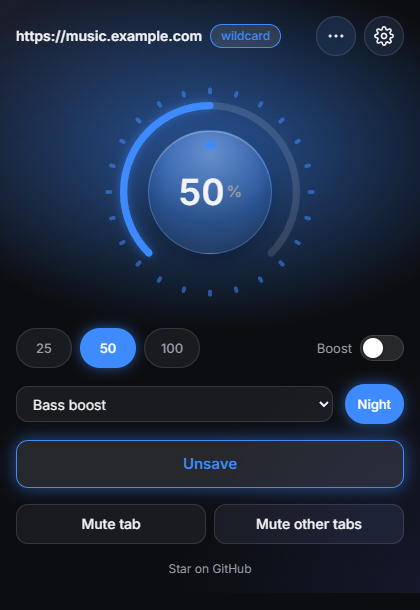
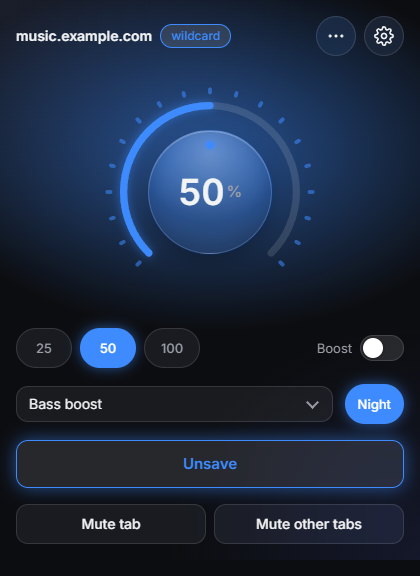
Store images and listing for the new popup
Screenshots and promo tiles are regenerated with the new logo, clean URLs and no GitHub footer. The listing and README now say that a saved site follows the knob.

diff --git a/README.md b/README.md
@@ -16,7 +16,7 @@ Chrome extension (Manifest V3, TypeScript, Vite) that sets and remembers the vol
 - **Boost:** up to 200, 300, 400 or 600% (set in options). Above 100% a limiter keeps peaks from clipping.
 - **Sound:** five-band equalizer (60 Hz to 14 kHz, ±12 dB, presets), leveler (compressor, "night mode"), mono and L/R balance. One global setting for every site that is not excluded. Applies to media that goes through Web Audio: plain media is routed through it once the page can start audio, and DRM or cross-origin media without CORS is left unchanged.
 - **Autoplay:** per-site list; media that starts before any click or key press is paused.
-- **Saving:** Save/Unsave stores the level for the whole domain (a wildcard such as `*.example.com`). The site menu saves a level for this URL only, sets the default level, blocks autoplay or excludes the site ("Never touch"). Exact origin beats wildcard, wildcard beats default, excluded beats all.
+- **Saving:** Save/Unsave stores the level for the whole domain (a wildcard such as `*.example.com`). On a saved site the knob keeps the stored level up to date. The site menu saves a level for this URL only, sets the default level, blocks autoplay or excludes the site ("Never touch"). Exact origin beats wildcard, wildcard beats default, excluded beats all.
 - **Mute:** mute the current tab or all other audible tabs. Muted tabs are listed in the popup with an Unmute button each.
 - **Override:** page writes to `volume` are virtualized, so the page reads back its own value while the real level is ours. Moving the level from the extension also updates the page's own volume (YouTube's slider follows). Web Audio output follows the level through a master gain. Covers `new Audio()` and closed shadow roots.
 - **Tab capture fallback:** media that in-page code cannot reach (another origin without CORS, DRM) is boosted through `tabCapture`. It starts when the popup is opened on that tab.
